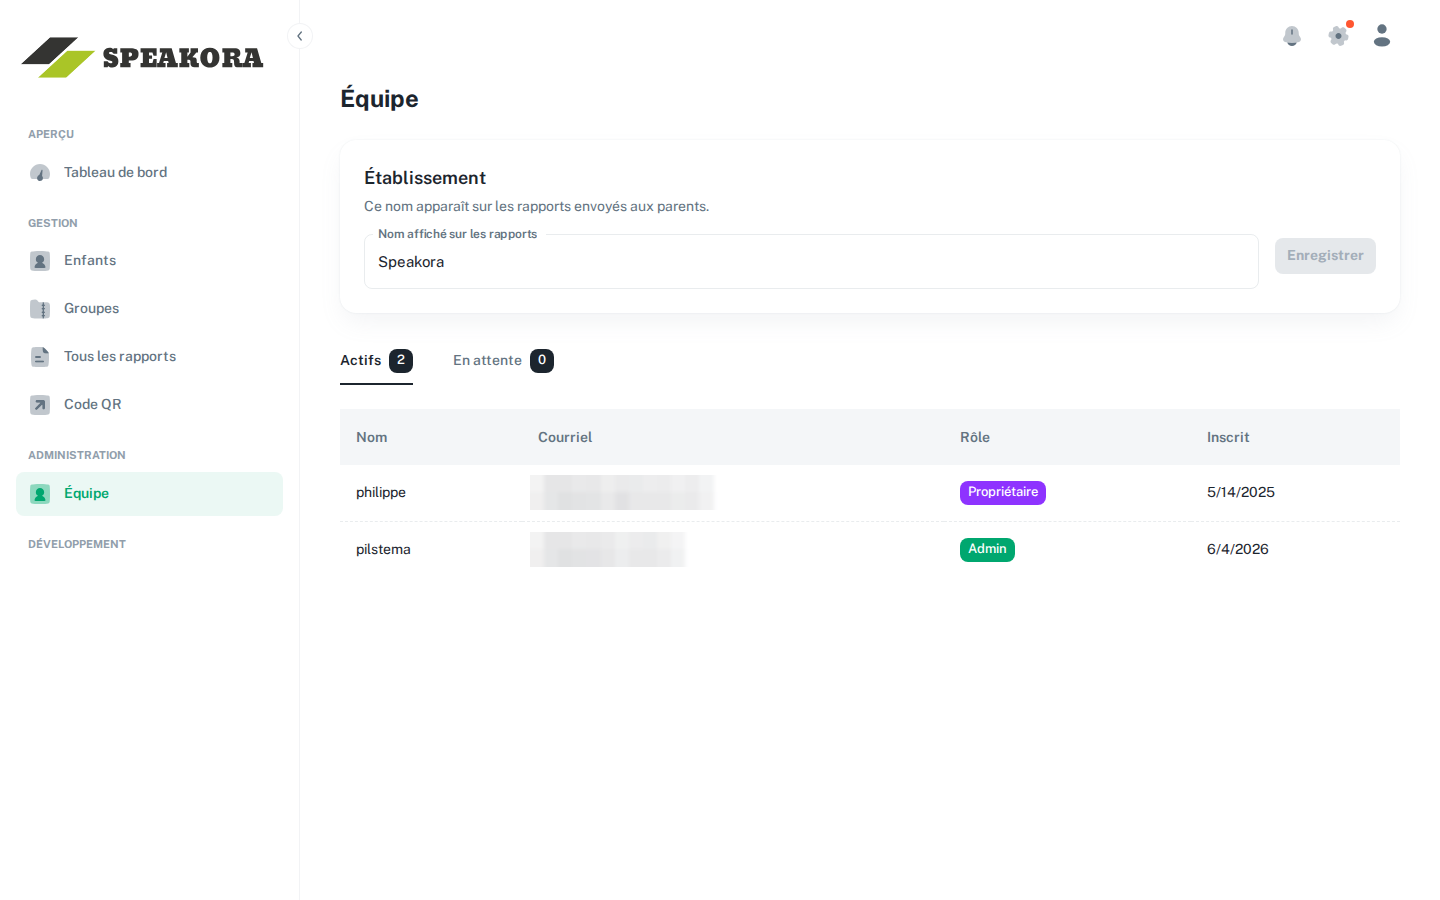
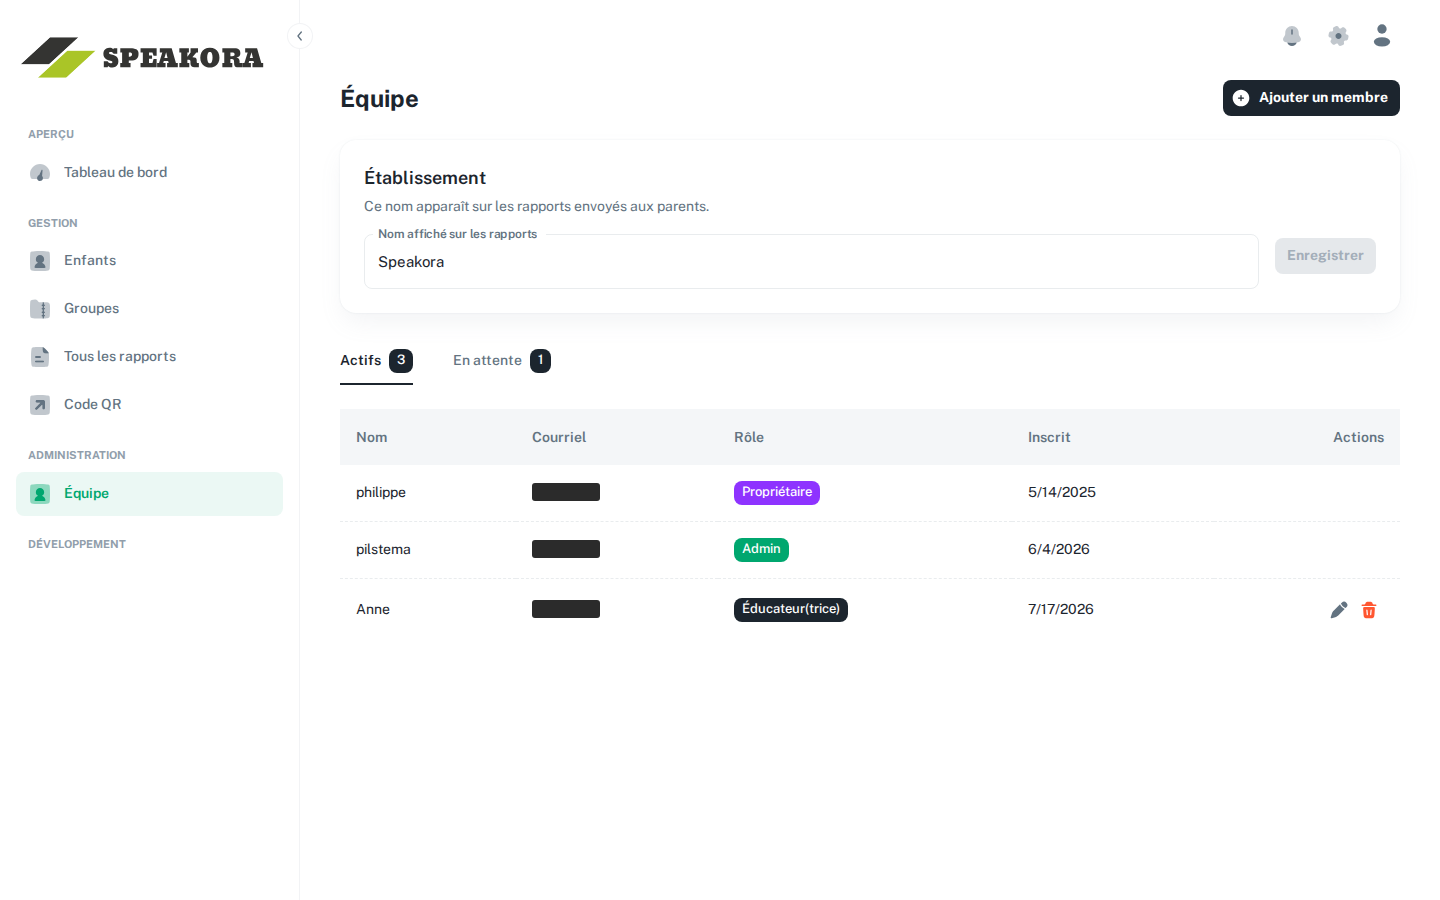
docs: mask emails automatically when capturing screenshots
Blurring was the one manual step in an otherwise automated pipeline, which is
why the published images drifted from the portal. Replace it with a regex pass
over text nodes before every capture: any email becomes an opaque block.

Masking by pattern rather than by CSS selector matters here -- emails show up
in the team table, pending invitations, the parent email column of pending
registrations, and the send dialog's recipient block. A per-page selector list
would silently miss one.

Also capture admin-enfant-rapports when KID_ID is supplied; the guide
referenced it but the script never produced it.

Re-captured all admin-*.png against the current portal (French UI, new team
actions, help-centre card).

diff --git a/README.md b/README.md
@@ -55,16 +55,22 @@ KID_ID=<enfant démo> REPORT_ID=<rapport brouillon de cet enfant> \
 Sans `EDUC_EMAIL`, la passe est sautée et les `educ-*.png` existantes sont
 conservées.
 
-**Après chaque capture**, refaire les retouches avant de publier (le script
-écrase les images retouchées à chaque exécution) :
+**Confidentialité : le masquage est automatique.** Avant chaque capture, le
+script remplace tout ce qui ressemble à une adresse courriel par un bloc plein
+(`maskSensitiveData` dans `screenshots.mjs`). Il n'y a donc plus rien à flouter
+à la main pour `admin-equipe.png`, et le masquage couvre aussi le courriel du
+parent dans les inscriptions en attente et le bloc destinataires du dialogue
+d'envoi. Le masquage porte sur les nœuds texte, par motif — pas sur des
+sélecteurs CSS — pour ne pas dépendre de la mise en page de chaque page.
 
-- `admin-equipe.png` — flouter les courriels (colonne Courriel);
-- `admin-envoi-dialogue.png` et `admin-envoi.png` — flouter le courriel du
-  destinataire (ces deux captures se prennent depuis la page d'un rapport
-  envoyé : dialogue « Envoyer aux parents » sans confirmer, puis « Voir le
-  courriel envoyé »);
-- `admin-parametres.png` — cercle rouge autour de l'icône de profil en haut
-  à droite.
+Deux captures échappent encore au script :
+
+- `admin-envoi-dialogue.png` et `admin-envoi.png` — se prennent depuis la page
+  d'un rapport **envoyé** : dialogue « Envoyer aux parents » sans confirmer,
+  puis « Voir le courriel envoyé ». Masquer le courriel du destinataire avant
+  de publier.
+- `admin-parametres.png` — ajouter le cercle rouge autour de l'icône de profil
+  en haut à droite.
 
 ### Application mobile (émulateur + adb)
 
